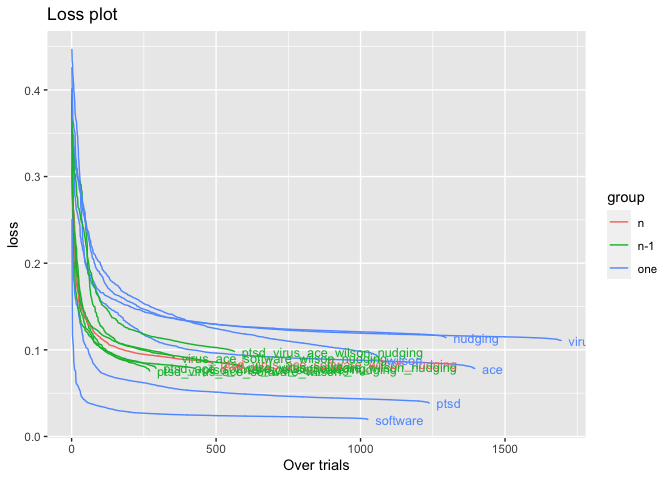
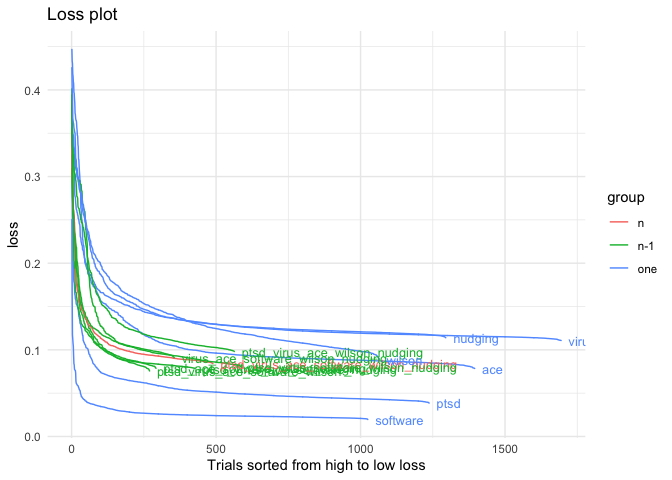
update RF loss plots

diff --git a/simulation_study/hpoptimization/README.md b/simulation_study/hpoptimization/README.md
@@ -1,3 +1,6 @@
+Optimizing Hyperparameters
+==========================
+
 To every model belongs a unique set of hyperparameters. To maximize
 model performance, we need to find optimal values for the
 hyperparameters. For every model the optimal hyperparameter values are
@@ -22,10 +25,7 @@ composing d are explored:
     optimal hyperparameters overall.
 -   **n-1**, where hyperparameters are optimized on all six datasets but
     one. Serving as a sensitivity analysis for the former condition, eg
-    how sensitive are the hyperparamters. also as a cross-validation
-    later on: hyperparameters obtained by training data, test data is
-    never seen before. where d are all datasets but the one where we
-    want to simulate later on.
+    how sensitive are the hyperparamters to different data sets.
 
 This results in 6+6+1=13 sets of hyperparameters for every model.
 Optimization trials were visually inspected to check if an optimum
